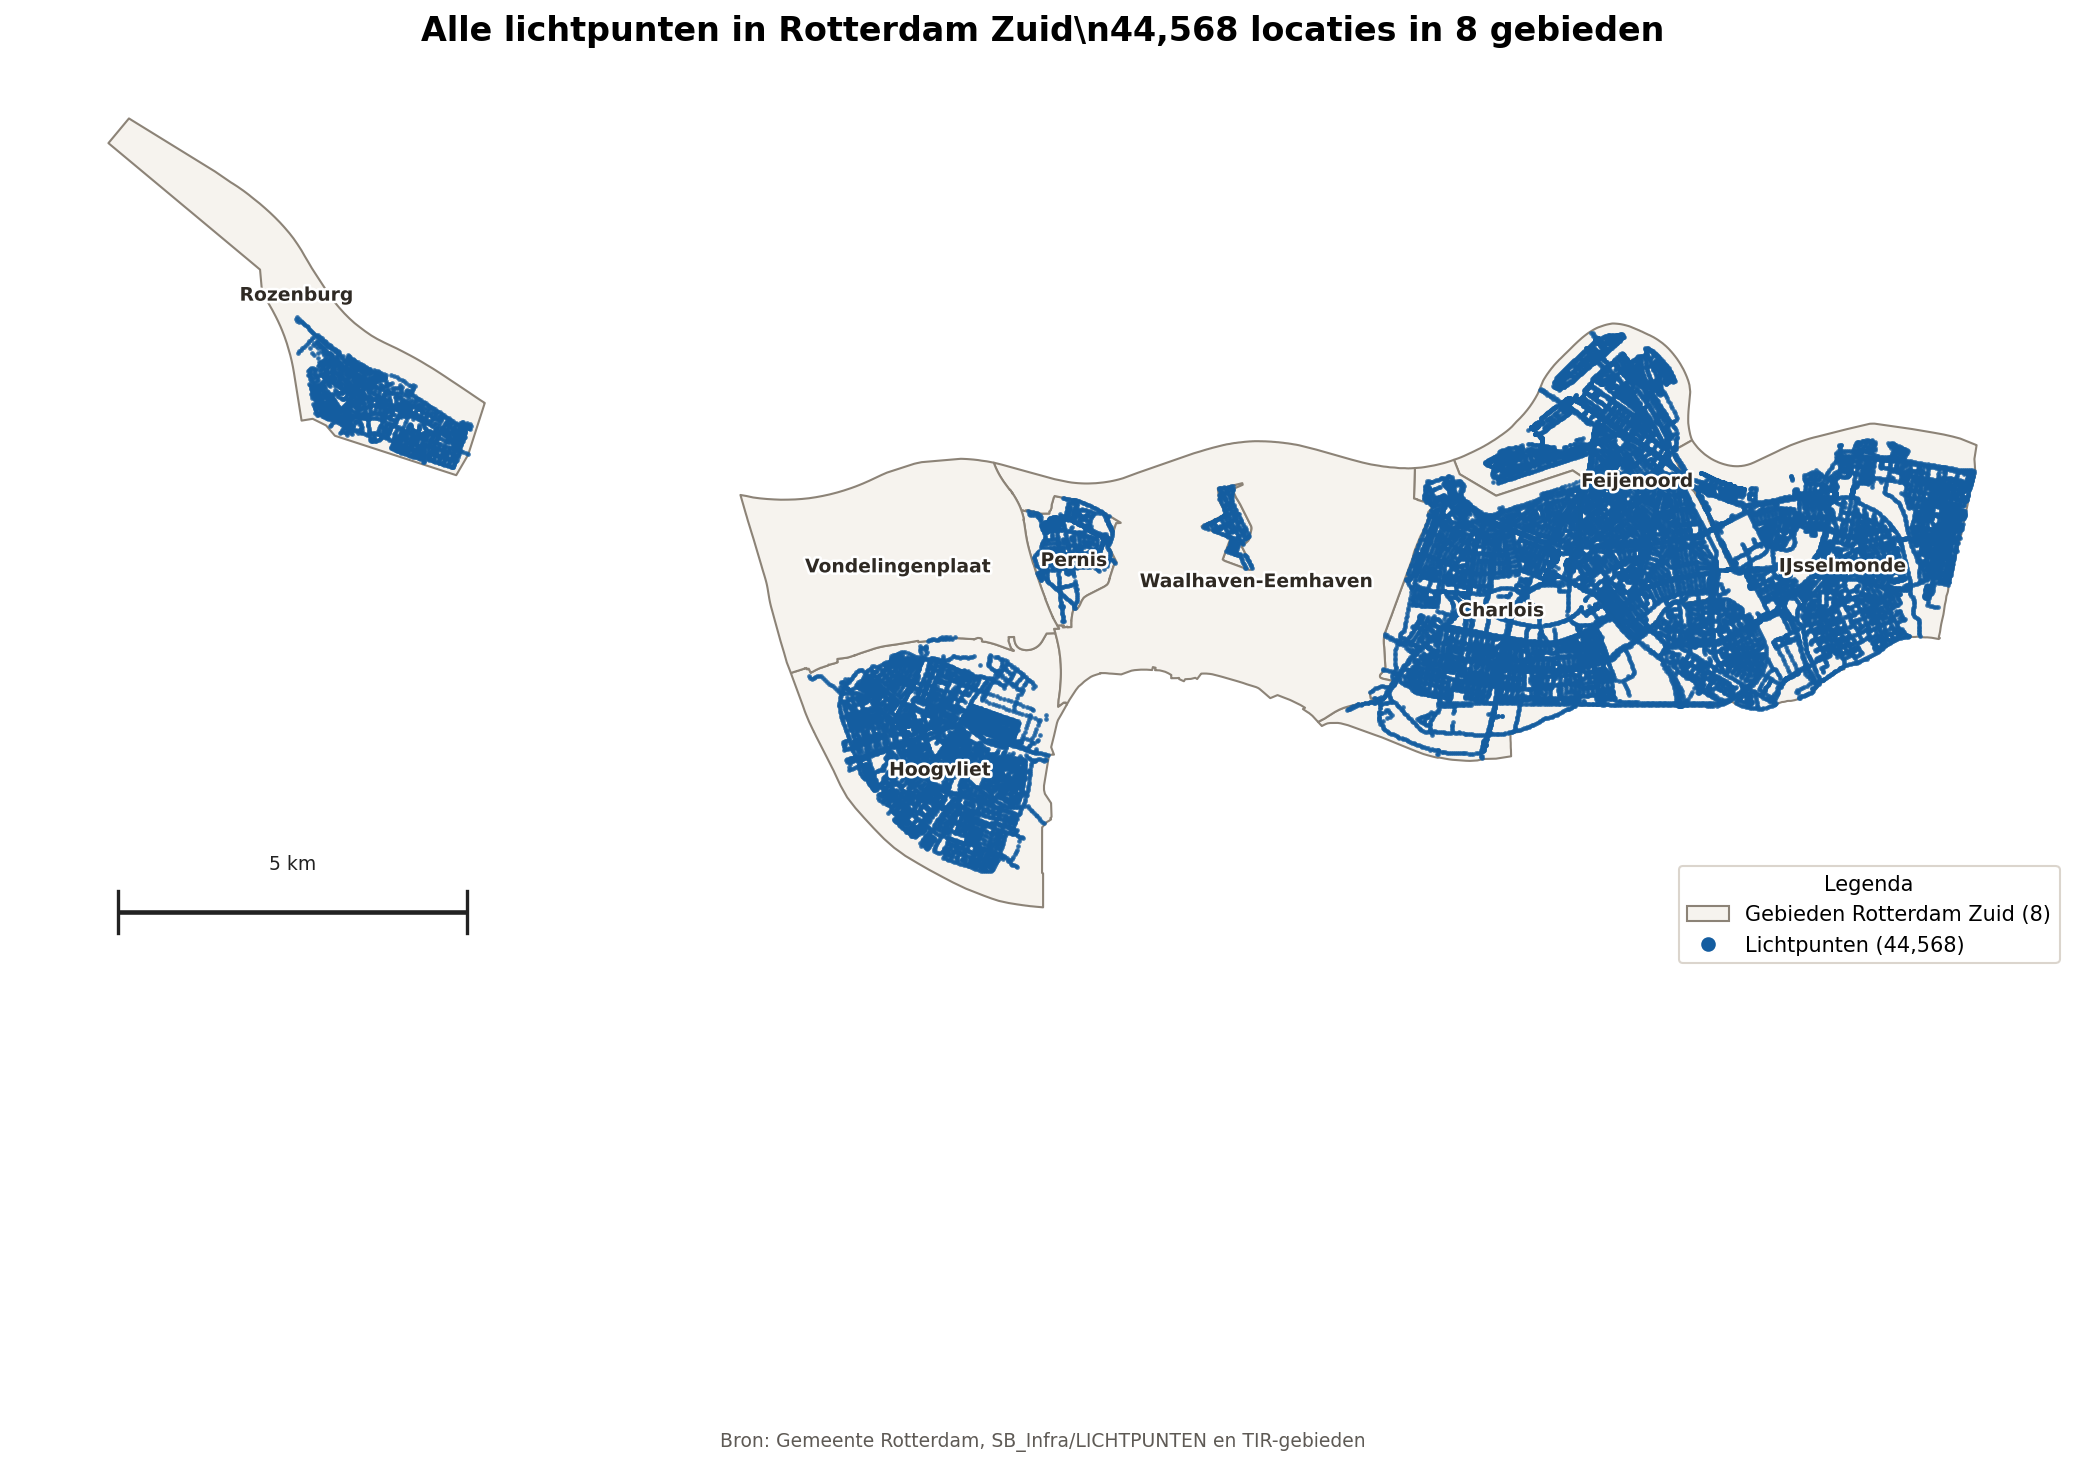
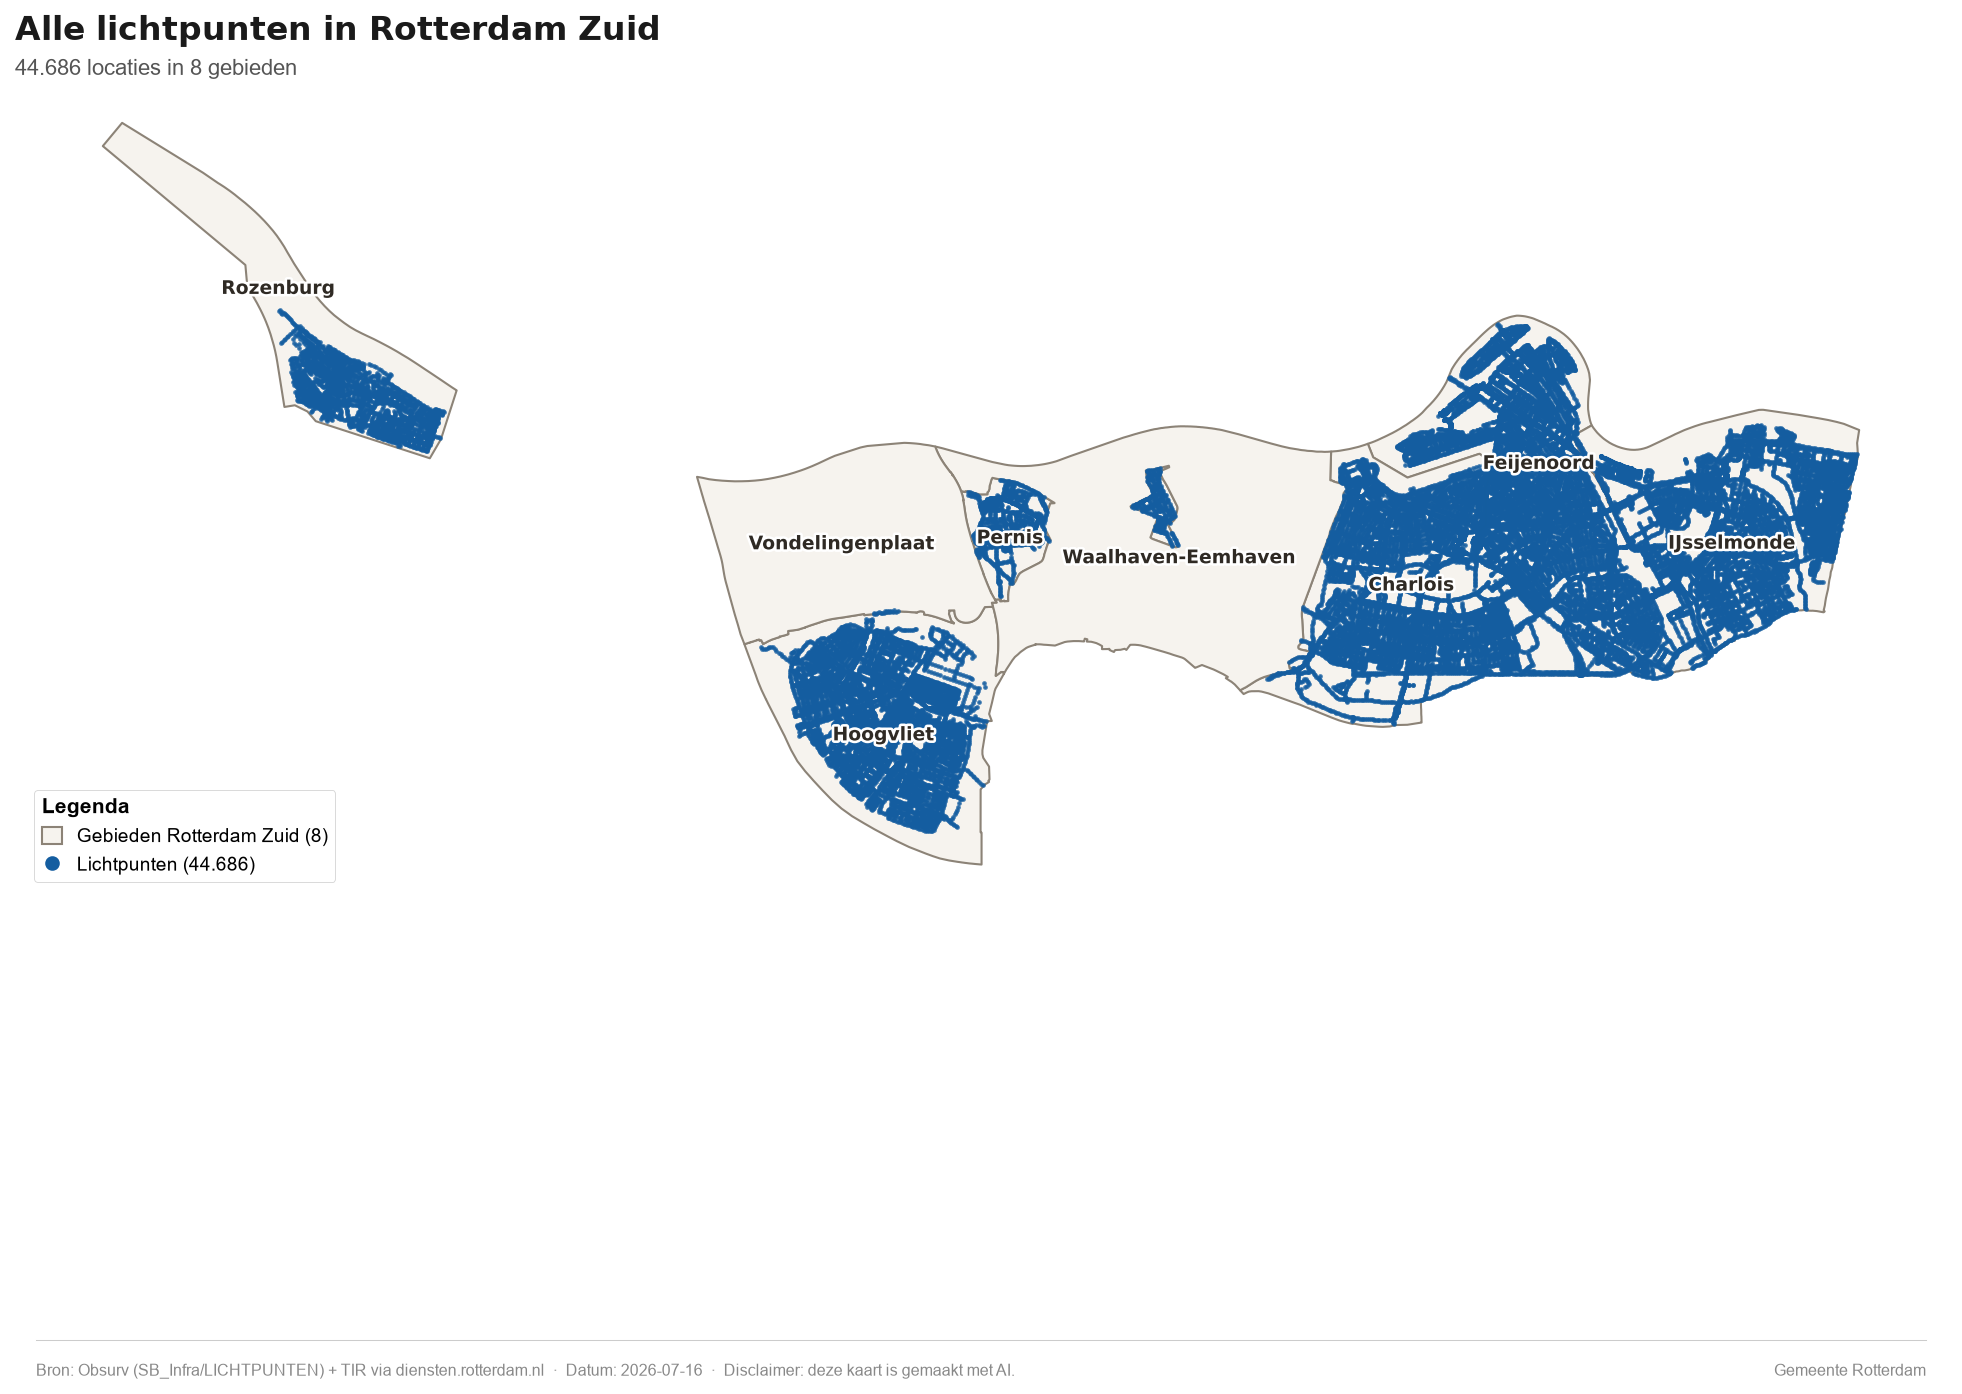
Migratie: kaart_lichtpunten_rotterdam_zuid naar de library
Hand-rolled titel/subtitel/legenda/footer vervangen door style_map +
finalize_map + place_legend. Aantallen nu via nl_getal (NL-notatie, was
Engelse ':,'). Dubbele save-print opgeruimd. validate_map schoon.

diff --git a/output/scripts/kaart_lichtpunten_rotterdam_zuid.py b/output/scripts/kaart_lichtpunten_rotterdam_zuid.py
@@ -17,7 +17,11 @@ matplotlib.use("Agg")
 import matplotlib.pyplot as plt
 
 
+import sys
 ROOT = Path(__file__).resolve().parents[2]
+sys.path.insert(0, str(ROOT / "General data"))
+from rotterdam import (style_map, finalize_map, place_legend, save_map,
+                       validate_map, nl_getal)
 DATA = ROOT / "General data" / "Data"
 OUT = ROOT / "output" / "maps"          # kaarten
 DATA_OUT = ROOT / "output" / "data"     # geexporteerde geodata
@@ -208,59 +212,27 @@ def main() -> None:
     # geen schaalstok: afstand niet relevant (invariant 14)
 
     area_patch = mpatches.Patch(
-        facecolor="#f6f3ee",
-        edgecolor="#8c8377",
+        facecolor="#f6f3ee", edgecolor="#8c8377",
         label=f"Gebieden Rotterdam Zuid ({len(zuid)})",
     )
     licht_handle = mlines.Line2D(
-        [],
-        [],
-        color="#145DA0",
-        marker="o",
-        linestyle="None",
-        markersize=6,
-        label=f"Lichtpunten ({len(lichtpunten_zuid):,})",
-    )
-    ax.legend(
-        handles=[area_patch, licht_handle],
-        title="Legenda",
-        loc="lower right",
-        frameon=True,
-        framealpha=0.95,
-        facecolor="white",
-        edgecolor="#d9d3cb",
+        [], [], color="#145DA0", marker="o", linestyle="None", markersize=6,
+        label=f"Lichtpunten ({nl_getal(len(lichtpunten_zuid))})",
     )
 
-    from matplotlib.transforms import ScaledTranslation
-    ax.set_title(
-        "Alle lichtpunten in Rotterdam Zuid",
-        fontsize=16,
-        fontweight="bold",
-        pad=28,
-    )
-    # subtitel: niet vet, kleiner dan de titel, net boven de kaart (titelhiërarchie)
-    ax.text(
-        0.5, 1.0, f"{len(lichtpunten_zuid):,} locaties in 8 gebieden",
-        transform=ax.transAxes + ScaledTranslation(0, 7 / 72, fig.dpi_scale_trans),
-        ha="center", va="bottom", fontsize=10.5, color="#555555",
-    )
-    ax.text(
-        0.5,
-        0.03,
-        "Bron: Gemeente Rotterdam, SB_Infra/LICHTPUNTEN en TIR-gebieden",
-        transform=fig.transFigure,
-        ha="center",
-        fontsize=9,
-        color="#5e5a55",
-    )
+    # Kaartelementen + footer via de library (conventies)
+    style_map(ax, "Alle lichtpunten in Rotterdam Zuid",
+              subtitle=f"{nl_getal(len(lichtpunten_zuid))} locaties in 8 gebieden")
+    finalize_map(fig, source="Obsurv (SB_Infra/LICHTPUNTEN) + TIR via diensten.rotterdam.nl")
+    place_legend(ax, [area_patch, licht_handle],
+                 [area_patch.get_label(), licht_handle.get_label()],
+                 title="Legenda", corner="auto", data=lichtpunten_zuid)
 
-    ax.set_axis_off()
-    plt.tight_layout()
-
-    png_out = OUT / "kaart_lichtpunten_rotterdam_zuid.png"
-    fig.savefig(png_out, dpi=150, bbox_inches="tight", facecolor="white")
-    plt.close(fig)
-    print(f"Kaart opgeslagen: {png_out}")
+    warns = validate_map(fig, ax, data=lichtpunten_zuid)
+    if warns:
+        print("Waarschuwingen:", *warns, sep="\n  - ")
+    out = save_map(fig, "kaart_lichtpunten_rotterdam_zuid")
+    print(f"Kaart opgeslagen: {out}")
 
 
 if __name__ == "__main__":